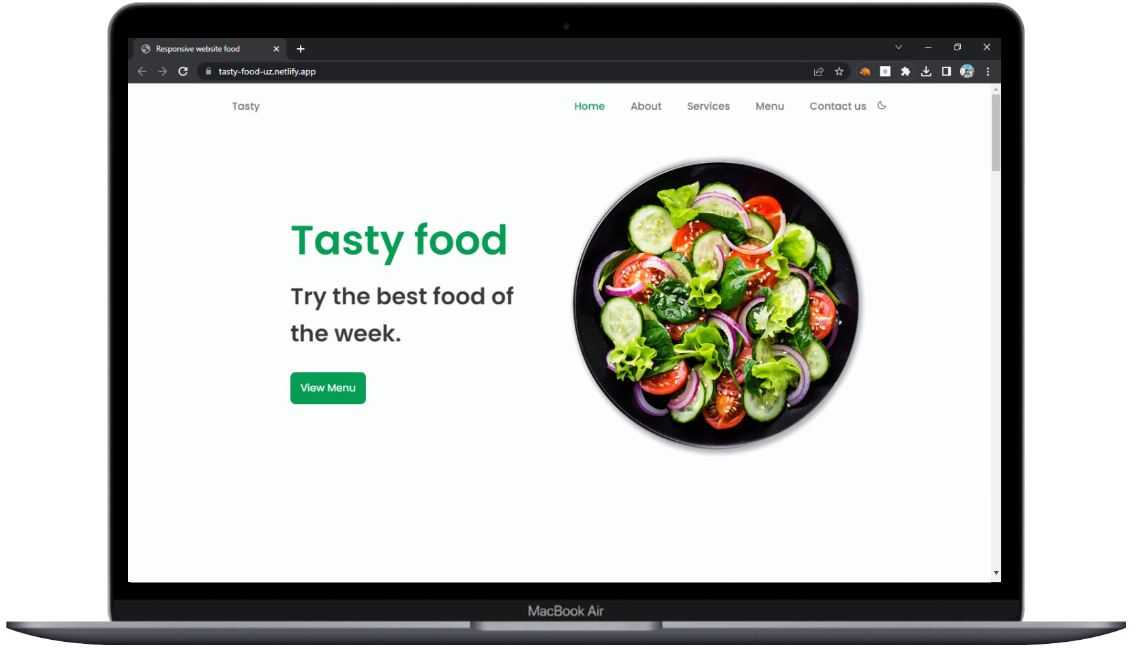
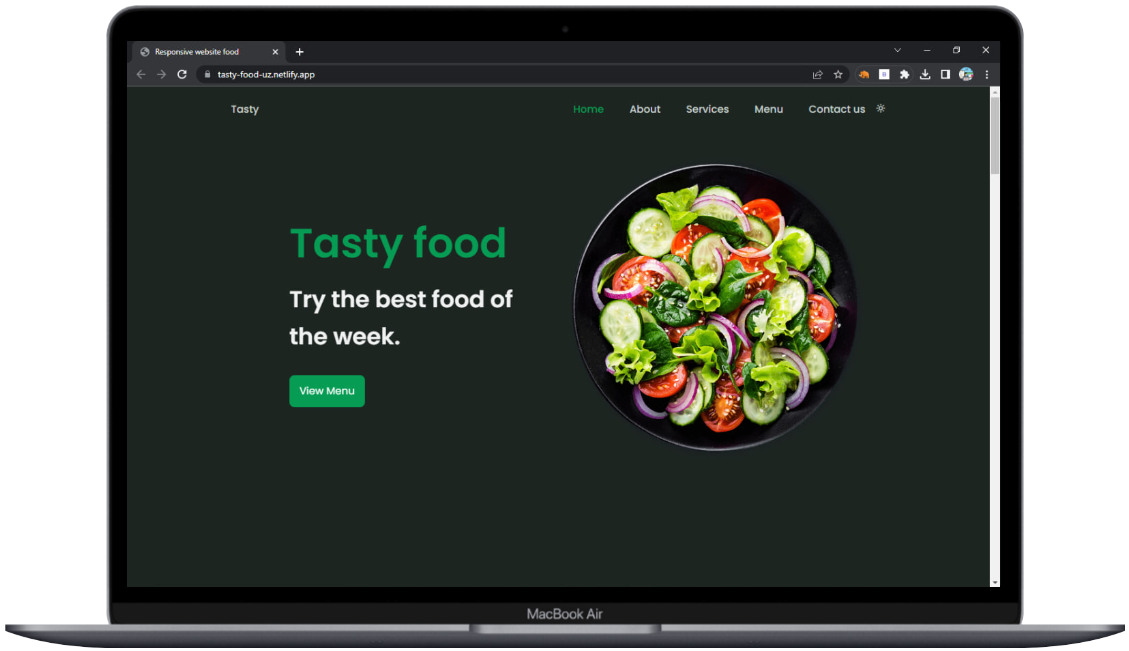
changed dark imaged

diff --git a/README.md b/README.md
@@ -4,4 +4,4 @@
 
 <p style="text-align: justify;"  align="center">Create Complete Responsive Restaurant Website Using HTML and CSS JavaScript. And It has been created Website Using HTML ,CSS &amp; Javascript.</p>
 
-![download (4)](https://user-images.githubusercontent.com/71099757/131264764-0108b87d-c944-44e1-8e13-9b0412f90a98.png)
+![download (4)](assets/img/dark.jpg.png)
